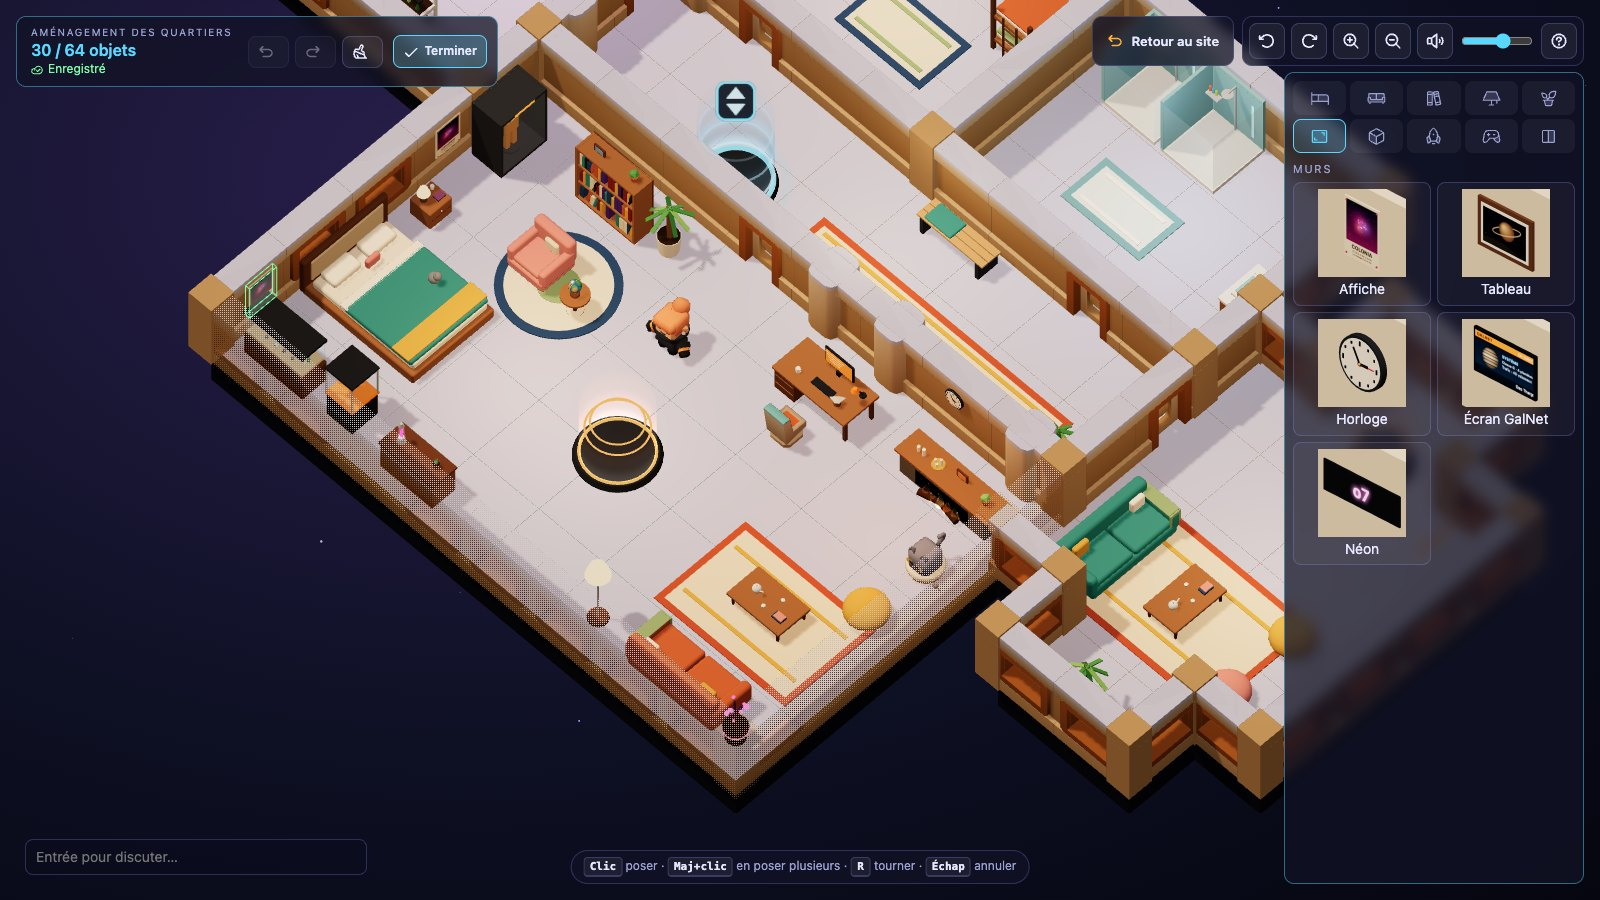
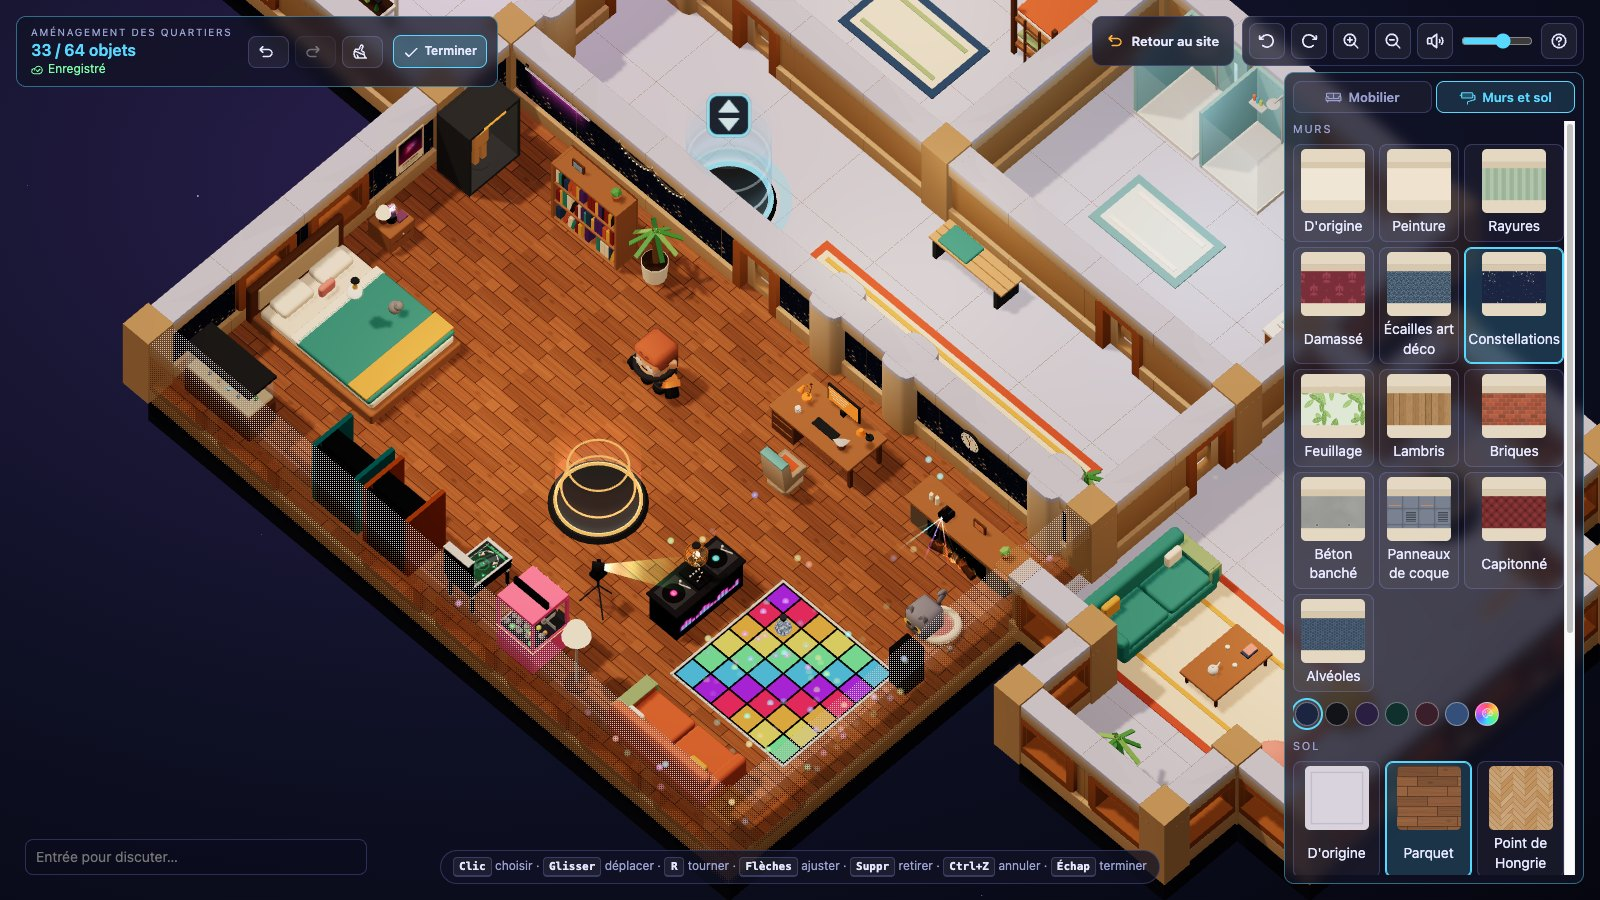
README : murs et sol, soirée, luminaires et arcade des quartiers
Le catalogue passe à 93 objets en douze catégories (le README en annonçait 70 : il y en avait
déjà 73). Nouvelles sections sur l'onglet « Murs et sol » et sur la soirée ; la capture du mode
aménagement montre des quartiers habillés (constellations, parquet, coin soirée, bornes), une
nouvelle capture la piste de danse en jeu. Mobilier fait main : arcade.ts, lights.ts, party.ts.

diff --git a/README.md b/README.md
@@ -43,7 +43,7 @@ Mini Interior est un POC : un vaisseau sur trois ponts, vu de dessus en isométr
 - **Multijoueur** : chaque onglet est un membre d'équipage, avec positions, emotes et chat en bulles, synchronisés par un petit relais socket.io.
 - **Comptes Élite Dangereuse** : un CMDR connecté à [elitedangereuse.fr](https://elitedangereuse.fr) arrive sous son nom, avec un badge « vérifié ».
 - **Holo-Me** : humain, combinaison spatiale, alien, robot ou créature, et chaque changement s'applique en direct.
-- **Quartiers personnalisables** : chaque joueur a sa propre instance des quartiers du commandant. Un CMDR connecté les aménage (70 meubles et objets : lits, plantes, affiches, lampe à lave, tasse de Hutton Orbital…) et y invite qui il veut.
+- **Quartiers personnalisables** : chaque joueur a sa propre instance des quartiers du commandant. Un CMDR connecté les aménage (93 meubles et objets : lits, plantes, affiches, bornes d'arcade, piste de danse, boule à facettes, tasse de Hutton Orbital…), choisit le papier peint et le sol, et y invite qui il veut.
 - **Des dizaines de meubles animés** : bornes d'arcade jouables, hologrammes, bras robotisé qui soude, aquarium, cheminée…
 - **Son spatialisé** : pas, réacteur, bips des consoles, mélodies d'arcade, ronronnements.
 
@@ -125,7 +125,7 @@ Les robots ont des pas plus lourds. Pour ajouter une espèce ou un modèle, il s
 ## Quartiers personnalisables
 
 <p align="center">
-  <img src="docs/images/amenagement.jpg" alt="Le mode aménagement : vue plongeante sur les quartiers, catalogue des objets à droite, une affiche en cours de pose sur un mur" width="100%">
+  <img src="docs/images/amenagement.jpg" alt="Le mode aménagement : vue plongeante sur des quartiers au papier peint constellations et au parquet, avec piste de danse, platines et bornes d'arcade ; à droite, l'onglet « Murs et sol » du catalogue" width="100%">
 </p>
 
 Les quartiers du commandant (40 tuiles, là où se trouve le Holo-Me) sont **instanciés** : chaque joueur a les siens, meublés selon son aménagement, et n'y voit que ceux qui s'y trouvent avec lui. Hors des quartiers, rien ne change : on croise tout l'équipage dans la coursive.
@@ -142,11 +142,19 @@ Un CMDR connecté au site les **aménage** : dans ses quartiers, `B` ou « Amén
 | Annuler, rétablir | `Ctrl+Z`, `Ctrl+Y` (ou `Ctrl+Maj+Z`) |
 | Terminer | `Échap`, « Terminer », ou `B` |
 
-Le catalogue compte **70 objets** en dix catégories : le mobilier du vaisseau (lits, canapés, bureau, aquarium, cheminée, bornes d'arcade, carte galactique…), et de quoi décorer : des affiches de voyage aux couleurs d'Elite (Colonia, Jameson Memorial, Hutton Orbital, Sagittarius A*, Beagle Point, les Gardiens…), des tableaux, une horloge qui donne l'heure de l'appareil, l'écran de GalNet, un néon « o7 », une étagère, des plantes (dont un spécimen exobiologique lumineux), et des petits objets à poser sur les meubles : tasse de Hutton Orbital, lampe à lave, globe, bougies, peluche de Comète, trophée Elite, capteur thargoïde, relique des Gardiens… La galerie `/gallery.html?catalogue` les montre tous (`&variantes` : toutes leurs variantes).
+Le catalogue compte **93 objets** en douze catégories : le mobilier du vaisseau (lits, canapés, bureau, aquarium, cheminée, carte galactique…), et de quoi décorer : des affiches de voyage aux couleurs d'Elite (Colonia, Jameson Memorial, Hutton Orbital, Sagittarius A*, Beagle Point, les Gardiens…), des tableaux, une horloge qui donne l'heure de l'appareil, l'écran de GalNet, des néons (« o7 », planète à anneaux, Comète…), une étagère, des plantes (dont un spécimen exobiologique lumineux), des luminaires (guirlande, bandeau LED, lampadaire arc, lampe en papier, suspensions, boule plasma), et des petits objets à poser sur les meubles : tasse de Hutton Orbital, lampe à lave, lampe de bureau, globe, bougies, peluche de Comète, trophée Elite, capteur thargoïde, relique des Gardiens… L'**arcade** a ses bornes (six jeux, dont « Le Labyrinthe de Comète », « SRV Rally » et « Cargaison »), une borne cocktail, trois flippers, une borne de course « Canyon Run » et une pince à peluches, la **soirée** sa piste de danse et sa boule à facettes (cf. plus bas). La galerie `/gallery.html?catalogue` les montre tous (`&variantes` : toutes leurs variantes).
 
-Les **règles de pose** (`src/cabin/rules.ts`) : un objet tient dans la cabine, ou sur un pan de mur libre (ni porte, ni hublot, ni pilier) ; il ne traverse pas un autre objet, mais un tapis passe sous les meubles, un petit objet se pose sur le dessus d'un meuble (bureau, table basse, commode, étagère…), et une affiche peut dépasser un peu derrière le dossier d'un canapé. Devant la porte, le passage reste libre, et le Holo-Me reste accessible depuis la porte : il se déplace, mais ne se retire pas. 64 objets au plus. L'objet en main se soulève, vert s'il peut aller là, rouge sinon avec la raison ; poussé contre un mur, il glisse le long ; tout près d'un mur, il s'y colle.
+Les **règles de pose** (`src/cabin/rules.ts`) : un objet tient dans la cabine, ou sur un pan de mur libre (ni porte, ni hublot, ni pilier) ; il ne traverse pas un autre objet, mais un tapis passe sous les meubles, un petit objet se pose sur le dessus d'un meuble (bureau, table basse, commode, étagère…), et une affiche peut dépasser un peu derrière le dossier d'un canapé. Devant la porte, le passage reste libre (une suspension, au-dessus des têtes, peut y pendre), et le Holo-Me reste accessible depuis la porte : il se déplace, mais ne se retire pas. 64 objets au plus. L'objet en main se soulève, vert s'il peut aller là, rouge sinon avec la raison ; poussé contre un mur, il glisse le long ; tout près d'un mur, il s'y colle.
 
-L'aménagement est **enregistré sur le site** (cf. [Comptes Élite Dangereuse](#comptes-élite-dangereuse)) un peu après chaque changement, et suit le CMDR d'un appareil à l'autre. Un invité du site a les quartiers d'origine : il ne les aménage pas, mais peut être invité.
+L'onglet **Murs et sol** du catalogue habille la cabine : douze revêtements de murs (peinture, rayures, damassé, écailles art déco, constellations, feuillage, lambris, briques, béton banché, panneaux de coque, capitonné, alvéoles) et onze de sol (parquet, point de Hongrie, moquette, carrelage, damier, marbre, terrazzo, tomettes, tôle larmée, béton ciré, tatamis), chacun dans les teintes de son nuancier ou dans n'importe quelle autre. Les motifs sont dessinés par le jeu (`src/cabin/finishes.ts`), sans image à télécharger : même motif, même couleur, même image chez l'hôte et chez ses invités. Le papier peint se pose sur le panneau en retrait des murs du kit, entre ses bandeaux, à côté des hublots et de la porte, et s'estompe avec son mur ; le revêtement de sol passe sous les tapis. La galerie `/gallery.html?revetements` les montre tous.
+
+<p align="center">
+  <img src="docs/images/soiree.jpg" alt="Un CMDR danse sur la piste lumineuse, sous la boule à facettes, entre les platines, une enceinte et une lyre" width="100%">
+</p>
+
+Pour les **soirées**, la catégorie « Soirée » bat au même tempo (120 BPM) : une piste de danse lumineuse (ses dalles s'allument en vagues, en damier, en anneaux ; « Danser » y fait danser le personnage, et elle éclaire la pièce au rythme de la musique), une boule à facettes dont les reflets balaient le sol et les murs, des platines, un jukebox, des enceintes, un projecteur laser et une lyre. Le jukebox et les platines jouent quelques mesures de disco, lancées sur un temps de la piste.
+
+L'aménagement est **enregistré sur le site** (cf. [Comptes Élite Dangereuse](#comptes-élite-dangereuse)) un peu après chaque changement, avec ses revêtements, et suit le CMDR d'un appareil à l'autre. Un invité du site a les quartiers d'origine : il ne les aménage pas, mais peut être invité.
 
 <p align="center">
   <img src="docs/images/visite.jpg" alt="Un CMDR en visite dans les quartiers aménagés d'un autre : chacun parle dans une bulle, la barre indique « Quartiers de CMDR Adam Fauster »" width="100%">
@@ -161,9 +169,9 @@ Un CMDR **invite** un membre d'équipage connecté : « Inviter » dans la barre
   <br><em>La galerie de debug <code>/gallery.html?mobilier</code> : tous les meubles construits à la main, animés.</em>
 </p>
 
-Les meubles qui ne sont pas dans le kit sont construits en primitives Three.js dans `src/furniture/`, rangés par zone : `elite.ts` (clins d'œil à Elite Dangerous, et le Holo-Me), `workshop.ts` (la cale), `leisure.ts` (infirmerie, sport, arcade), `cozy.ts` (les quartiers), `decor.ts` (la décoration des cabines : affiches, cadres, plantes, petits objets). On les place dans `src/levels.ts` comme les modèles du kit : `{ model: 'fireplace', x, z, rot }`, et dans les quartiers depuis le catalogue du mode aménagement (`src/cabin/catalog.ts`, qui dit comment chacun se pose et ce qu'on peut en changer). Le nom du modèle est vérifié à la compilation.
+Les meubles qui ne sont pas dans le kit sont construits en primitives Three.js dans `src/furniture/`, rangés par zone : `elite.ts` (clins d'œil à Elite Dangerous, et le Holo-Me), `workshop.ts` (la cale), `leisure.ts` (infirmerie, sport), `arcade.ts` (les bornes et leurs jeux), `cozy.ts` (les quartiers), `decor.ts` (la décoration des cabines : affiches, cadres, plantes, petits objets), `lights.ts` (les luminaires des cabines), `party.ts` (la soirée : piste de danse, boule à facettes, platines…). On les place dans `src/levels.ts` comme les modèles du kit : `{ model: 'fireplace', x, z, rot }`, et dans les quartiers depuis le catalogue du mode aménagement (`src/cabin/catalog.ts`, qui dit comment chacun se pose et ce qu'on peut en changer). Le nom du modèle est vérifié à la compilation.
 
-- `label` passe un texte libre au meuble : le titre d'un panneau holographique (`'Titre|ligne|ligne'`), le jeu d'une borne (`elite`, `invaders`, `asteroids`), la couleur d'un tissu (`teal`, `terracotta`, `mustard`…), la palette et la taille d'un tapis (`warm:2.2x1.5`).
+- `label` passe un texte libre au meuble : le titre d'un panneau holographique (`'Titre|ligne|ligne'`), le jeu d'une borne (`elite`, `invaders`, `asteroids`, `comete`, `srv`, `cargo`), la couleur d'un tissu (`teal`, `terracotta`, `mustard`…), la palette et la taille d'un tapis (`warm:2.2x1.5`).
 - `interact` accepte une liste de phrases : une au hasard à chaque interaction. `action` change le verbe de l'invite (« Jouer », « Se doucher », « Frapper »…).
 - Certains meubles s'animent (hologrammes, flammes, poissons, étincelles, bras robotisé, tapis roulant) et ont un son d'ambiance (bornes d'arcade, soudure, grondement de la raffinerie).
 
@@ -276,7 +284,7 @@ Les bips, les mélodies d'arcade, les étincelles, le miaulement et le ronronnem
 ## Choix techniques
 
 - **Three.js + TypeScript + Vite.** Le rendu est en « 2D isométrique » : une caméra **orthographique** placée au vrai angle isométrique (35,26° d'élévation, 45° d'azimut) filme des modèles 3D low-poly. On garde l'aspect iso 2D sans avoir à gérer l'ordre d'affichage des sprites, avec des animations dans toutes les directions, des ombres, de l'éclairage et la rotation de la caméra par quarts de tour.
-- **Performances.** Les packs Kenney sont entièrement mats, donc ils sont rendus en **Lambert** au lieu du PBR : même aspect, bien moins de calcul par pixel. Toute la géométrie immobile d'un pont (sols, coque, murs, poteaux, meubles) est fusionnée en quelques maillages : on fait **~105 appels de dessin par image sur le pont principal (ombres comprises), au lieu de ~420**. Les meubles des quartiers sont fusionnés à part, et refusionnés à chaque changement d'aménagement (un meuble déplacé n'est pas reconstruit) : ~6 appels de dessin de plus sur le pont supérieur. Les murs à rendre transparents devant le joueur restent individualisables grâce à un index par sommet et une petite texture de fondu. Les étoiles sont animées entièrement dans le GPU. Une réserve de 8 lumières ponctuelles, de taille fixe, évite toute recompilation de shader, et tous les shaders sont compilés avant la première image. La densité de pixels démarre à 1,5. Elle baisse si l'image passe sous ~50 i/s, et remonte jusqu'à 2 s'il reste de la marge. Le survol à la souris est traité une fois par image, et la boucle n'alloue presque plus rien (moins de pauses du ramasse-miettes).
+- **Performances.** Les packs Kenney sont entièrement mats, donc ils sont rendus en **Lambert** au lieu du PBR : même aspect, bien moins de calcul par pixel. Toute la géométrie immobile d'un pont (sols, coque, murs, poteaux, meubles) est fusionnée en quelques maillages : on fait **~105 appels de dessin par image sur le pont principal (ombres comprises), au lieu de ~420**. Les meubles des quartiers sont fusionnés à part, et refusionnés à chaque changement d'aménagement (un meuble déplacé n'est pas reconstruit) : ~6 appels de dessin de plus sur le pont supérieur, 2 de plus avec des revêtements (qui se redessinent sur place, sans refusion), et un par pièce animée (écrans, platines, dalles de la piste…). Les murs à rendre transparents devant le joueur restent individualisables grâce à un index par sommet et une petite texture de fondu. Les étoiles sont animées entièrement dans le GPU. Une réserve de 8 lumières ponctuelles, de taille fixe, évite toute recompilation de shader, et tous les shaders sont compilés avant la première image. La densité de pixels démarre à 1,5. Elle baisse si l'image passe sous ~50 i/s, et remonte jusqu'à 2 s'il reste de la marge. Le survol à la souris est traité une fois par image, et la boucle n'alloue presque plus rien (moins de pauses du ramasse-miettes).
 - **Anti-clignotement.** Le fondu des murs est **tramé** (matrice de Bayer) au lieu d'être en vraie transparence. Il n'y a donc plus de tri d'objets transparents ni de bascule opaque/transparent. Les **poteaux d'angle** sont un peu plus larges et plus hauts que les murs : les dessus de murs qui se chevauchaient au même niveau causaient un z-fighting en dents de scie. L'ombre du soleil est fixe et couvre tout le vaisseau, elle ne « nage » plus quand la caméra bouge. Enfin, les faces confondues (panneaux de portes, dalles au sol) ont été décalées.
 - **Multijoueur.** Un relais socket.io minimal (`server/relay.js`) reçoit positions, messages et emotes, les valide et les rediffuse. socket.io apporte la reconnexion automatique et le repli en long polling quand le WebSocket ne passe pas. Le relais est branché sur le serveur de dev de Vite et sur `server/index.js` en production. Ce n'est pas un serveur qui fait autorité : pour un POC, chaque client fait confiance aux autres. Comète (l'animal) est simulé séparément sur chaque client. Pour les quartiers, en revanche, le relais tranche : il garde l'aménagement de chaque CMDR vérifié (forme vérifiée par `server/cabin.js`), n'ouvre des quartiers que sur invitation, transmet leurs changements aux seuls visiteurs, et renvoie ceux-ci chez eux quand leur hôte part. Chaque joueur porte l'instance des quartiers où il se trouve (`cabin`, l'id de son hôte) ; chaque client en déduit qui il voit.
 - **Chargement à la demande.** Le mode aménagement (éditeur, règles de pose, vignettes du catalogue, ~25 ko) n'est téléchargé qu'à sa première ouverture. Les vignettes sont rendues à la demande dans un petit contexte WebGL hors écran, libéré une fois la file vidée.
@@ -288,7 +296,7 @@ Les bips, les mélodies d'arcade, les étincelles, le miaulement et le ronronnem
 | `src/levels.ts` | **Les trois ponts** : plans ASCII (une lettre par pièce, `+` pour une porte), noms des pièces, ambiance (peinture, éclairage, pas), meubles, lumières, position de l'ascenseur, pièce des quartiers personnalisables. C'est ici qu'on modifie le vaisseau. |
 | `src/map.ts` | Lecture d'un plan : pièces, portes, arêtes (mur / porte / ouvert). |
 | `src/deck.ts` · `src/merge.ts` | Construit un pont : sols, murs sur les arêtes, hublots, poteaux, portes automatiques, meubles, ascenseur, réacteur, tuyères. Fusion de géométrie et fondu tramé (`merge.ts`, partagé avec les quartiers). |
-| `src/cabin/` | **Quartiers personnalisables** : catalogue des objets (`catalog.ts`), aménagement et sa normalisation (`layout.ts`), construction et fusion dans le pont (`view.ts`), règles de pose (`rules.ts`), mode aménagement (`editor.ts`), vignettes (`thumbs.ts`), barre des quartiers et invitations (`hud.ts`), enregistrement sur le site (`storage.ts`). |
+| `src/cabin/` | **Quartiers personnalisables** : catalogue des objets (`catalog.ts`), revêtements des murs et du sol (`finishes.ts`), aménagement et sa normalisation (`layout.ts`), construction et fusion dans le pont (`view.ts`), règles de pose (`rules.ts`), mode aménagement (`editor.ts`), vignettes (`thumbs.ts`), barre des quartiers et invitations (`hud.ts`), enregistrement sur le site (`storage.ts`). |
 | `src/fade.ts` | Shaders de transparence tramée (par objet ou indexée pour la géométrie fusionnée). |
 | `src/avatar.ts` | Personnage animé : locomotion, emotes. Partagé par le joueur local et les joueurs distants. |
 | `src/looks.ts` | Catalogue des apparences (espèces, sexe, modèles, teintes, combinaisons) et fabrication des modèles correspondants (casques, sacs dorsaux). |
